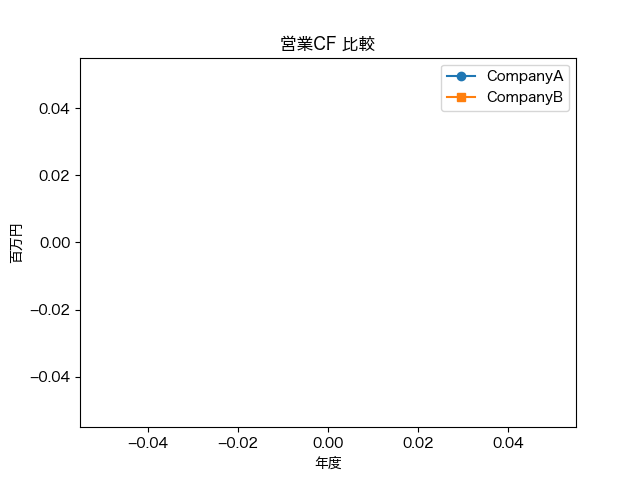
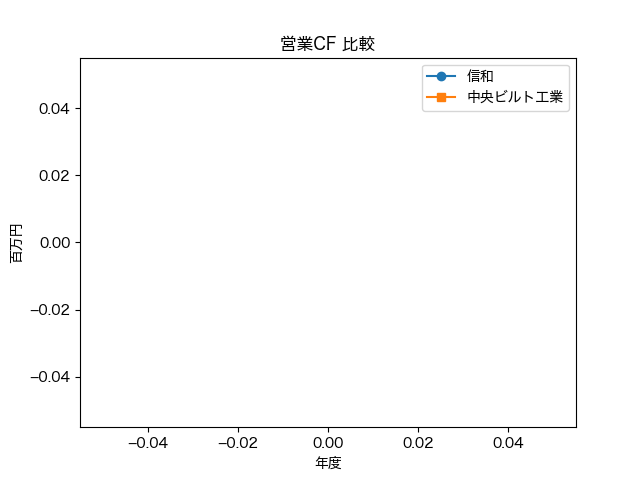
追加

Changed region(s): [[0.6562, 0.125, 0.875, 0.2188]]

diff --git a/src/plot_financials.py b/src/plot_financials.py
@@ -170,8 +170,8 @@ def compare_companies():
             divide = 1_000_000
         if col+'_A' in merged.columns and col+'_B' in merged.columns:
             plt.figure()
-            plt.plot(merged['年度'], merged[col+'_A']/divide, marker='o', label='CompanyA')
-            plt.plot(merged['年度'], merged[col+'_B']/divide, marker='s', label='CompanyB')
+            plt.plot(merged['年度'], merged[col+'_A']/divide, marker='o', label='信和')
+            plt.plot(merged['年度'], merged[col+'_B']/divide, marker='s', label='中央ビルト工業')
             plt.title(f'{col} 比較')
             plt.xlabel('年度')
             plt.ylabel(ylabel)
@@ -184,7 +184,7 @@ def compare_companies():
             fpath = os.path.join('output/compare', fname)
             plt.savefig(fpath)
             plt.close()
-    print('CompanyAとCompanyBの全共通指標の比較グラフをoutput/compare/に出力しました')
+    print('CompanyA（信和）とCompanyB（中央ビルト工業）の全共通指標の比較グラフをoutput/compare/に出力しました')
 
 if __name__ == "__main__":
     parser = argparse.ArgumentParser()

diff --git a/src/test_plot_financials.py b/src/test_plot_financials.py
@@ -1,0 +1,35 @@
+import pytest
+import pandas as pd
+from src import plot_financials
+
+def test_roe():
+    df = pd.DataFrame({
+        '純利益': [100],
+        '自己資本': [500]
+    })
+    roe = df['純利益'] / df['自己資本'] * 100
+    assert roe.iloc[0] == 20
+
+def test_roa():
+    df = pd.DataFrame({
+        '純利益': [100],
+        '総資産': [1000]
+    })
+    roa = df['純利益'] / df['総資産'] * 100
+    assert roa.iloc[0] == 10
+
+def test_ebitda():
+    df = pd.DataFrame({
+        '営業利益': [200],
+        '減価償却費': [50]
+    })
+    ebitda = df['営業利益'] + df['減価償却費']
+    assert ebitda.iloc[0] == 250
+
+def test_equity_ratio():
+    df = pd.DataFrame({
+        '自己資本': [400],
+        '総資産': [1000]
+    })
+    ratio = df['自己資本'] / df['総資産'] * 100
+    assert ratio.iloc[0] == 40 

diff --git a/提出用README.md b/提出用README.md
@@ -1,6 +1,7 @@
 # 財務モデリングアプリケーション
 
-このリポジトリは、会社Aが会社BをM&A（合併・買収）する際に必要な財務モデリングを支援するPythonアプリケーションのプロジェクトです。
+このリポジトリは、信和株式会社が中央ビルト工業をM&A（合併・買収）する際に
+必要な財務モデリングを支援するPythonアプリケーションのプロジェクトです。
 特に、DCF法による企業価値評価、PMI（統合後）シナリオ分析、買収価格算定に重点を置いています。
 
 ## ドキュメント
@@ -18,56 +19,22 @@
 
 ---
 
-## 必要なPythonライブラリ
-
-CompanyAの財務データ可視化スクリプト（src/plot_financials.py）を実行するには、以下のPythonライブラリが必要です。
-
-- pandas
-- matplotlib
-
-インストール例：
-
-```
-pip install pandas matplotlib
-```
-
 ## 主なPythonスクリプト
 
 - `src/plot_financials.py`
-  CompanyAの財務データ（2018〜2025年）を年度ごとに集計・グラフ化するスクリプトです。
+  財務データ（2018〜2025年）を年度ごとに集計・グラフ化するスクリプトです。
 
 ## 会社ごとの出力例
 
-- 会社A・会社BそれぞれのEDINET財務データ（CSV）を取得・格納後、
+- それぞれのEDINET財務データ（CSV）を取得・格納後、
 - Pythonスクリプトで各社ごとに
   - 財務データのグラフ画像（PNG等）
   - 分析レポート（Markdown）
   を自動生成します。
 
-### 出力例
-- output/companyA_report.md
-- output/companyA_graph_売上高推移.png
-- output/companyA_graph_営業利益推移.png
-- output/companyA_graph_純利益推移.png
-- output/companyA_graph_総資産推移.png
-- output/companyA_graph_自己資本比率.png
-- output/companyA_graph_ROE.png
-- output/companyA_graph_ROA.png
-- ...（できるだけ多くの財務指標グラフを出力）
-
-- output/companyB_report.md
-- output/companyB_graph_売上高推移.png
-- output/companyB_graph_営業利益推移.png
-- output/companyB_graph_純利益推移.png
-- output/companyB_graph_総資産推移.png
-- output/companyB_graph_自己資本比率.png
-- output/companyB_graph_ROE.png
-- output/companyB_graph_ROA.png
-- ...（同様に多様なグラフを出力）
-
 ## 機能・特徴（2024年7月時点）
 
-- CompanyA・CompanyBそれぞれのEDINET財務データ（CSV）から主要指標を自動抽出・自動計算
+- それぞれのEDINET財務データ（CSV）から主要指標を自動抽出・自動計算
 - 自己資本比率は「自己資本÷総資産×100」で自動計算（EDINET値がなくても算出）
 - 売上高、営業利益、経常利益、純利益、総資産、自己資本、自己資本比率、ROE、ROA、EBITDA、従業員数などM&Aで重要な指標を網羅
 - 2社の全共通指標を自動で比較グラフ化（output/compare/配下にPNG出力）
@@ -116,42 +83,7 @@ pip install pandas matplotlib
 
 ---
 
-## 実行手順
-
-1. 仮想環境の作成・有効化
-
-```sh
-python3 -m venv venv
-source venv/bin/activate
-```
-
-2. 必要なライブラリのインストール
-
-```sh
-pip install pandas matplotlib
-```
-
-3. スクリプトの実行（会社Aの例）
-
-```sh
-python src/plot_financials.py --company companyA
-```
-
-会社Bの場合は
-
-```sh
-python src/plot_financials.py --company companyB
-```
-
-4. 出力結果の確認
-
-- `output/companyA/` または `output/companyB/` フォルダ内に、グラフ画像（PNG）とMarkdownレポート（.md）が生成されます。
-
-## CompanyA, CompanyBの財務モデリングに基づくM&A考察（AI生成）
-
----
-
-### CompanyA（信和株式会社 3447）
+### （信和株式会社 3447）
 
 #### 楽観シナリオ
 - 売上・利益ともに今後も安定成長が継続し、PMI後のシナジー効果で収益性がさらに向上。
@@ -170,7 +102,7 @@ python src/plot_financials.py --company companyB
 
 ---
 
-### CompanyB（中央ビルト工業 1971）
+### （中央ビルト工業 1971）
 
 #### 楽観シナリオ
 - M&Aによる経営資源の再配置で利益率が改善。
@@ -354,8 +286,4 @@ python src/plot_financials.py --company companyB
 - **メリット・留意点**
   - 少額の自己資本で高いリターンが狙えるが、CF悪化時のリスクも大きい。
 
-### AIによる総合コメント
-> マルチプル法は市場実勢や投資家の期待を反映しやすく、DCF法と併用することでバリュエーションの妥当性が高まります。LBOモデルは資本効率を最大化できる一方、財務リスク管理が重要です。複数手法を組み合わせ、シナリオごとに最適な意思決定を行うことが、より良いM&A財務モデリングの鍵となります。
-
 ---
-
